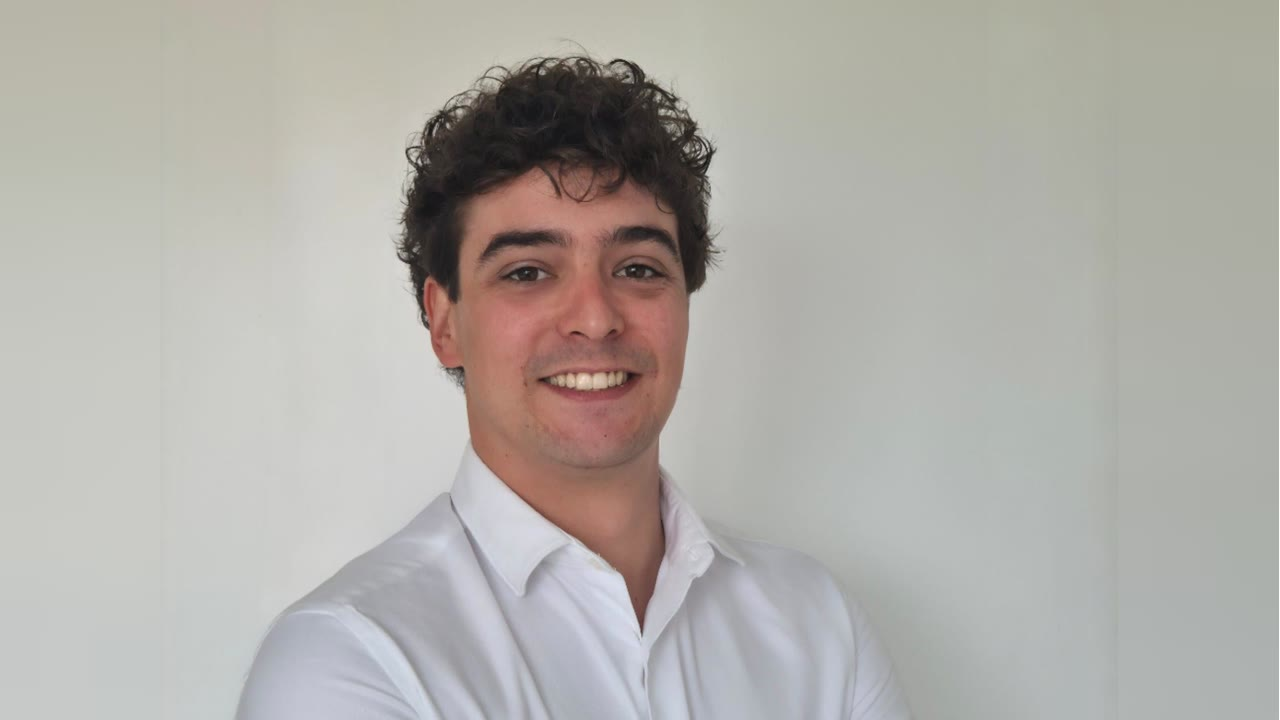
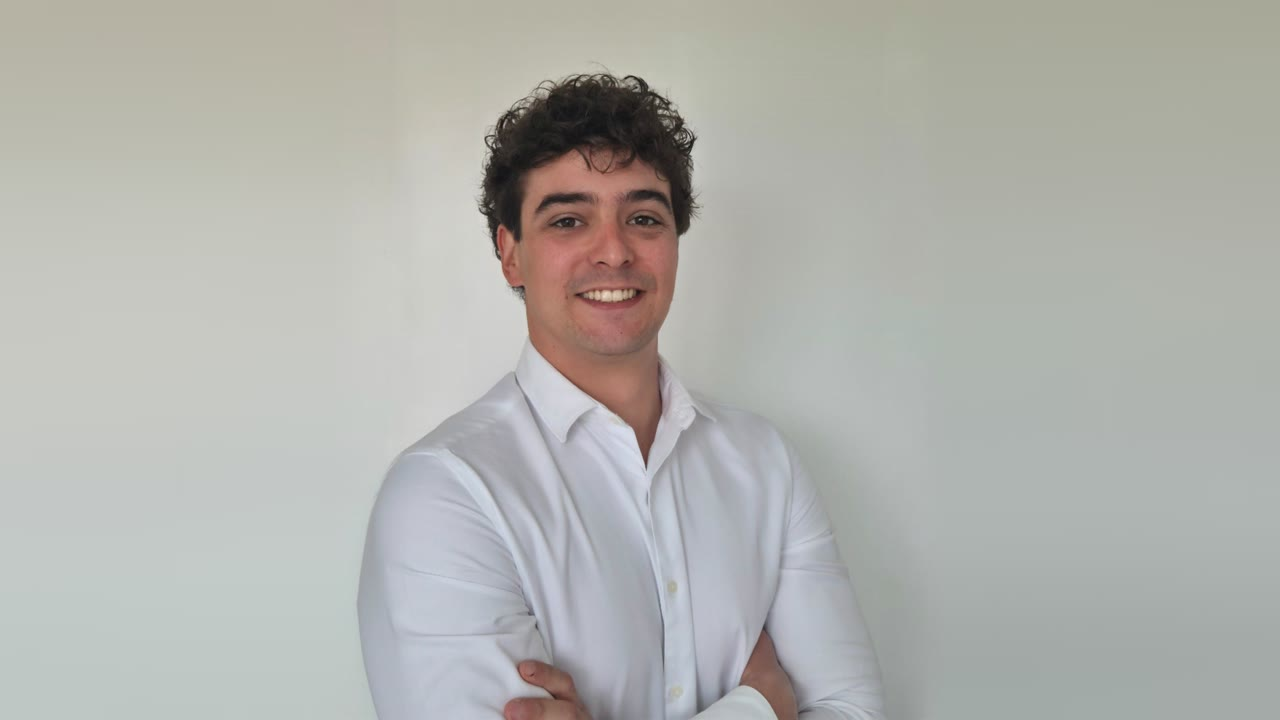
Landing: portada del VSL con la foto completa (más lejos) y nuevo lugar en la objeción 3

Changed region(s): [[0.1875, 0.0611, 0.7188, 1.0]]

diff --git a/index.html b/index.html
@@ -378,7 +378,7 @@
             <button class="btn btn--gold" type="submit">Ver el vídeo</button>
           </form>
           <div class="video">
-            <video controls playsinline preload="metadata" poster="vsl-poster.jpg?v=2" title="Vídeo: ordena tu dinero en 4 bloques"><source src="vsl.mp4" type="video/mp4">Tu navegador no puede reproducir este vídeo.</video>
+            <video controls playsinline preload="metadata" poster="vsl-poster.jpg?v=3" title="Vídeo: ordena tu dinero en 4 bloques"><source src="vsl.mp4" type="video/mp4">Tu navegador no puede reproducir este vídeo.</video>
           </div>
         </div>
       </div>
@@ -540,7 +540,7 @@
             <div class="reel__v"><video controls playsinline preload="none" poster="objeciones/objecion-2.jpg?v=2"><source src="objeciones/objecion-2.mp4" type="video/mp4"></video><div class="reel__q"><h3>¿Merece la pena pagar por esto?</h3></div><span class="reel__t">50 s</span><span class="reel__n">02</span></div>
           </article>
           <article class="reel">
-            <div class="reel__v"><video controls playsinline preload="none" poster="objeciones/objecion-3.jpg?v=2"><source src="objeciones/objecion-3.mp4" type="video/mp4"></video><div class="reel__q"><h3>¿No lo puedo aprender gratis o usar un roboadvisor?</h3></div><span class="reel__t">57 s</span><span class="reel__n">03</span></div>
+            <div class="reel__v"><video controls playsinline preload="none" poster="objeciones/objecion-3.jpg?v=3"><source src="objeciones/objecion-3.mp4" type="video/mp4"></video><div class="reel__q"><h3>¿No lo puedo aprender gratis o usar un roboadvisor?</h3></div><span class="reel__t">57 s</span><span class="reel__n">03</span></div>
           </article>
           <article class="reel">
             <div class="reel__v"><video controls playsinline preload="none" poster="objeciones/objecion-5.jpg?v=2"><source src="objeciones/objecion-5.mp4" type="video/mp4"></video><div class="reel__q"><h3>¿No es mejor esperar a ganar más?</h3></div><span class="reel__t">48 s</span><span class="reel__n">05</span></div>
